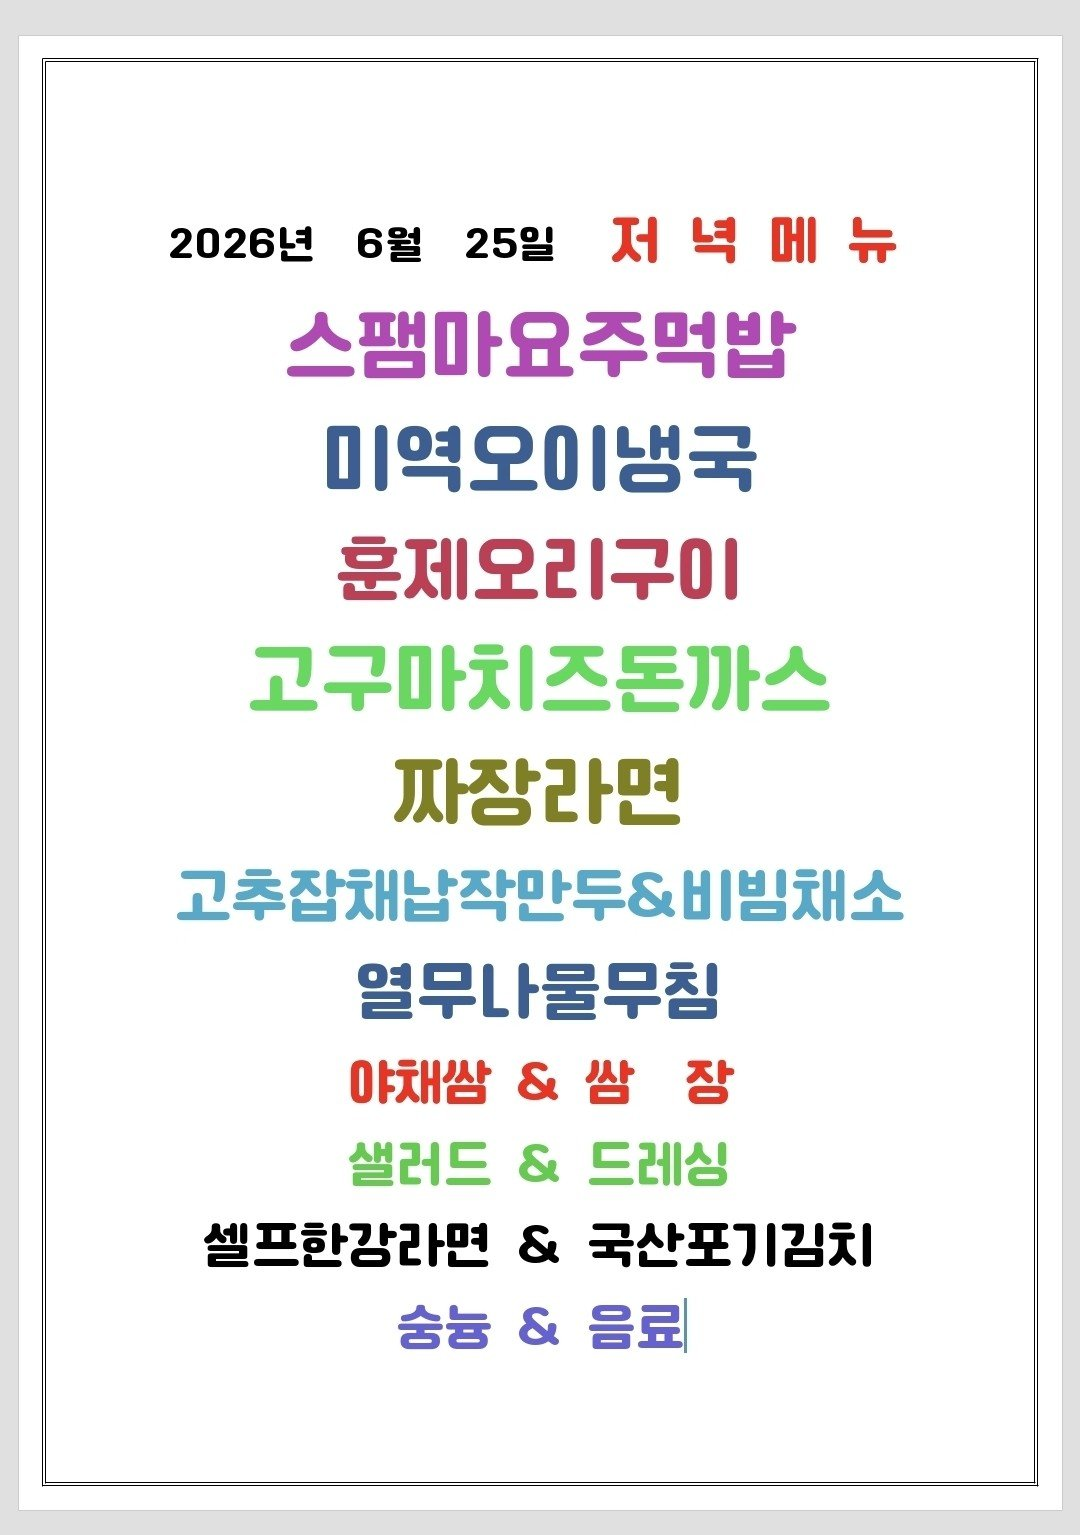
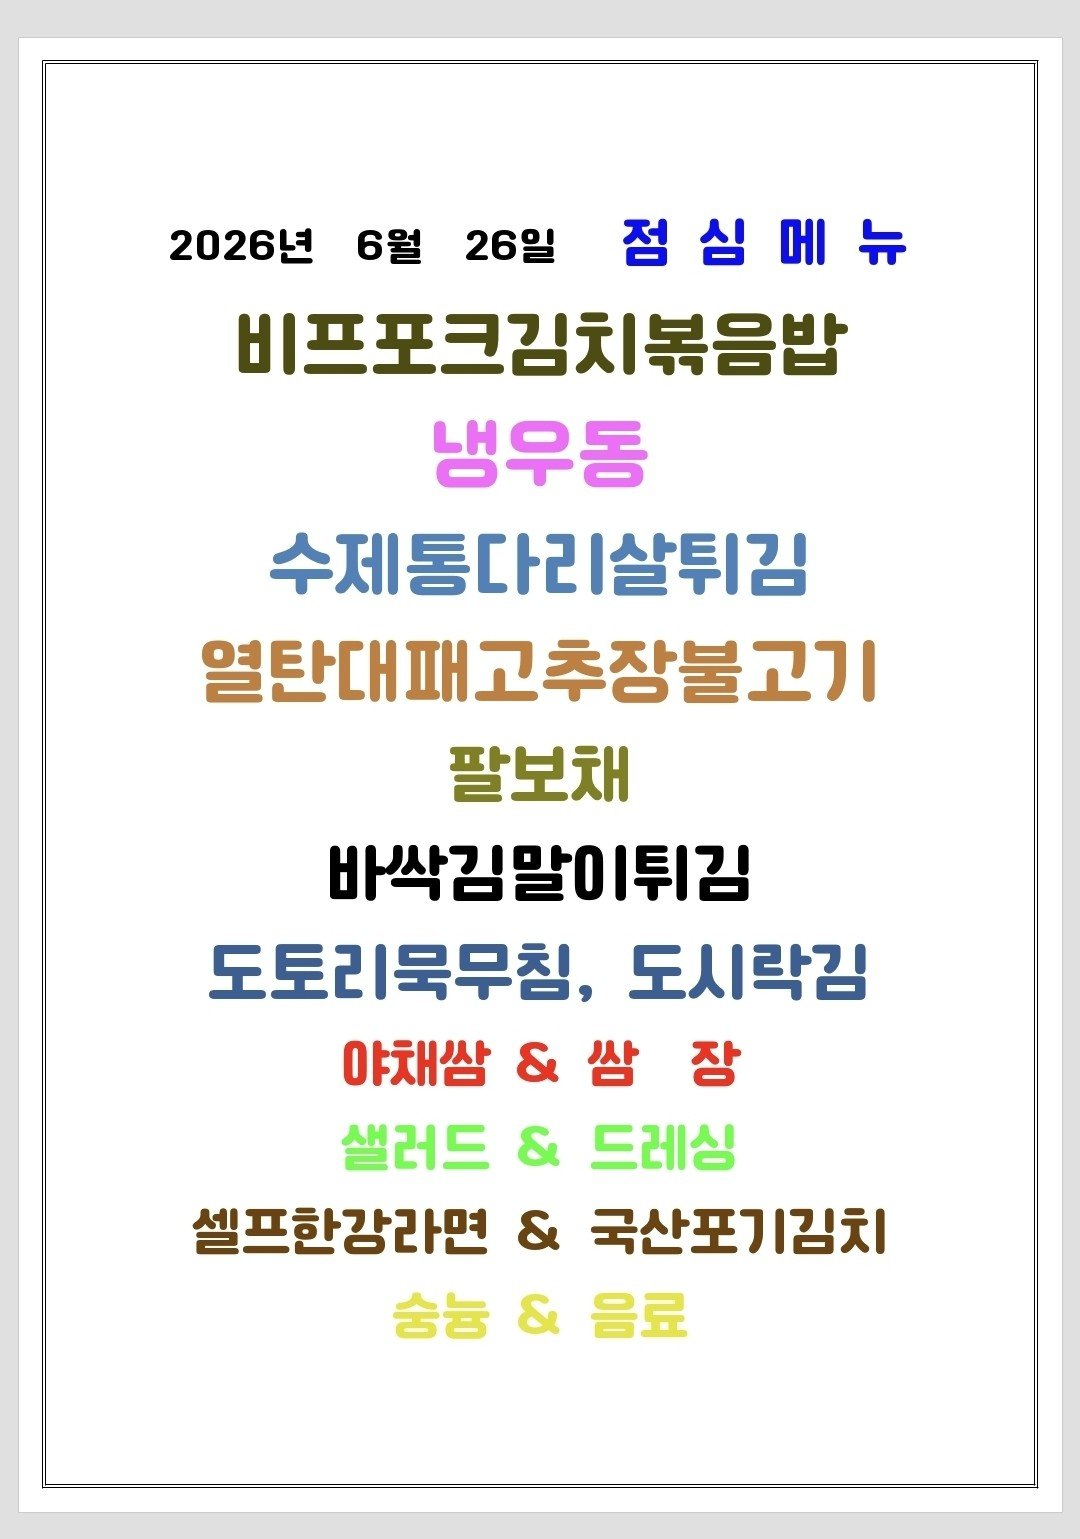
Update menu board assets

diff --git a/menu-today/index.html b/menu-today/index.html
@@ -209,7 +209,7 @@
 
     <section class="meta-bar">
       <div class="meta-card"><div class="meta-label">기준 날짜</div><div class="meta-value">2026년 6월 26일 금요일</div></div>
-      <div class="meta-card"><div class="meta-label">최종 가져온 시간</div><div class="meta-value">2026-06-26 11:17:52</div></div>
+      <div class="meta-card"><div class="meta-label">최종 가져온 시간</div><div class="meta-value">2026-06-26 11:33:05</div></div>
       <div class="meta-card"><div class="meta-label">확인 완료</div><div class="meta-value">9개 식당</div></div>
       <div class="meta-card"><div class="meta-label">준비중</div><div class="meta-value">3개 채널</div></div>
     </section>
@@ -265,7 +265,7 @@
             <div class="sub">가산비즈니스센터</div>
           </div>
         </div>
-        <div class="menu-inline-image"><img src="./images/raonfood.png" alt="구내식당라온푸드 식단 이미지"></div><div class="info-note">오늘 메뉴 미수집 상태입니다.</div>
+        <div class="menu-inline-image"><img src="./images/raonfood.png" alt="구내식당라온푸드 식단 이미지"></div><ul><li>비프포크김지볶음밥</li><li>수제통다리살튀김</li><li>열탄대패고주잠불고 )</li><li>팔보재</li><li>바삭김말미튀김</li><li>도토리묵무침, 도시락김</li><li>ss &amp; 음료</li><li>보으바</li></ul>
       </article>
 
       <article class="restaurant-card">

diff --git a/guro-menu/index.html b/guro-menu/index.html
@@ -32,7 +32,7 @@
   </header>
   <section class="meta">
     <div><small>기준 날짜</small><strong>2026년 6월 26일 금요일</strong></div>
-    <div><small>최종 갱신</small><strong>2026-06-26 11:18:06</strong></div>
+    <div><small>최종 갱신</small><strong>2026-06-26 11:33:17</strong></div>
     <div><small>등록 식당</small><strong>5개</strong></div>
   </section>
   <div class="notice">공개 카카오 채널의 메뉴 이미지를 자동 수집하고 OCR로 정리합니다. 텍스트에 오타가 있을 수 있으니 식단 이미지를 함께 확인해 주세요.</div>
